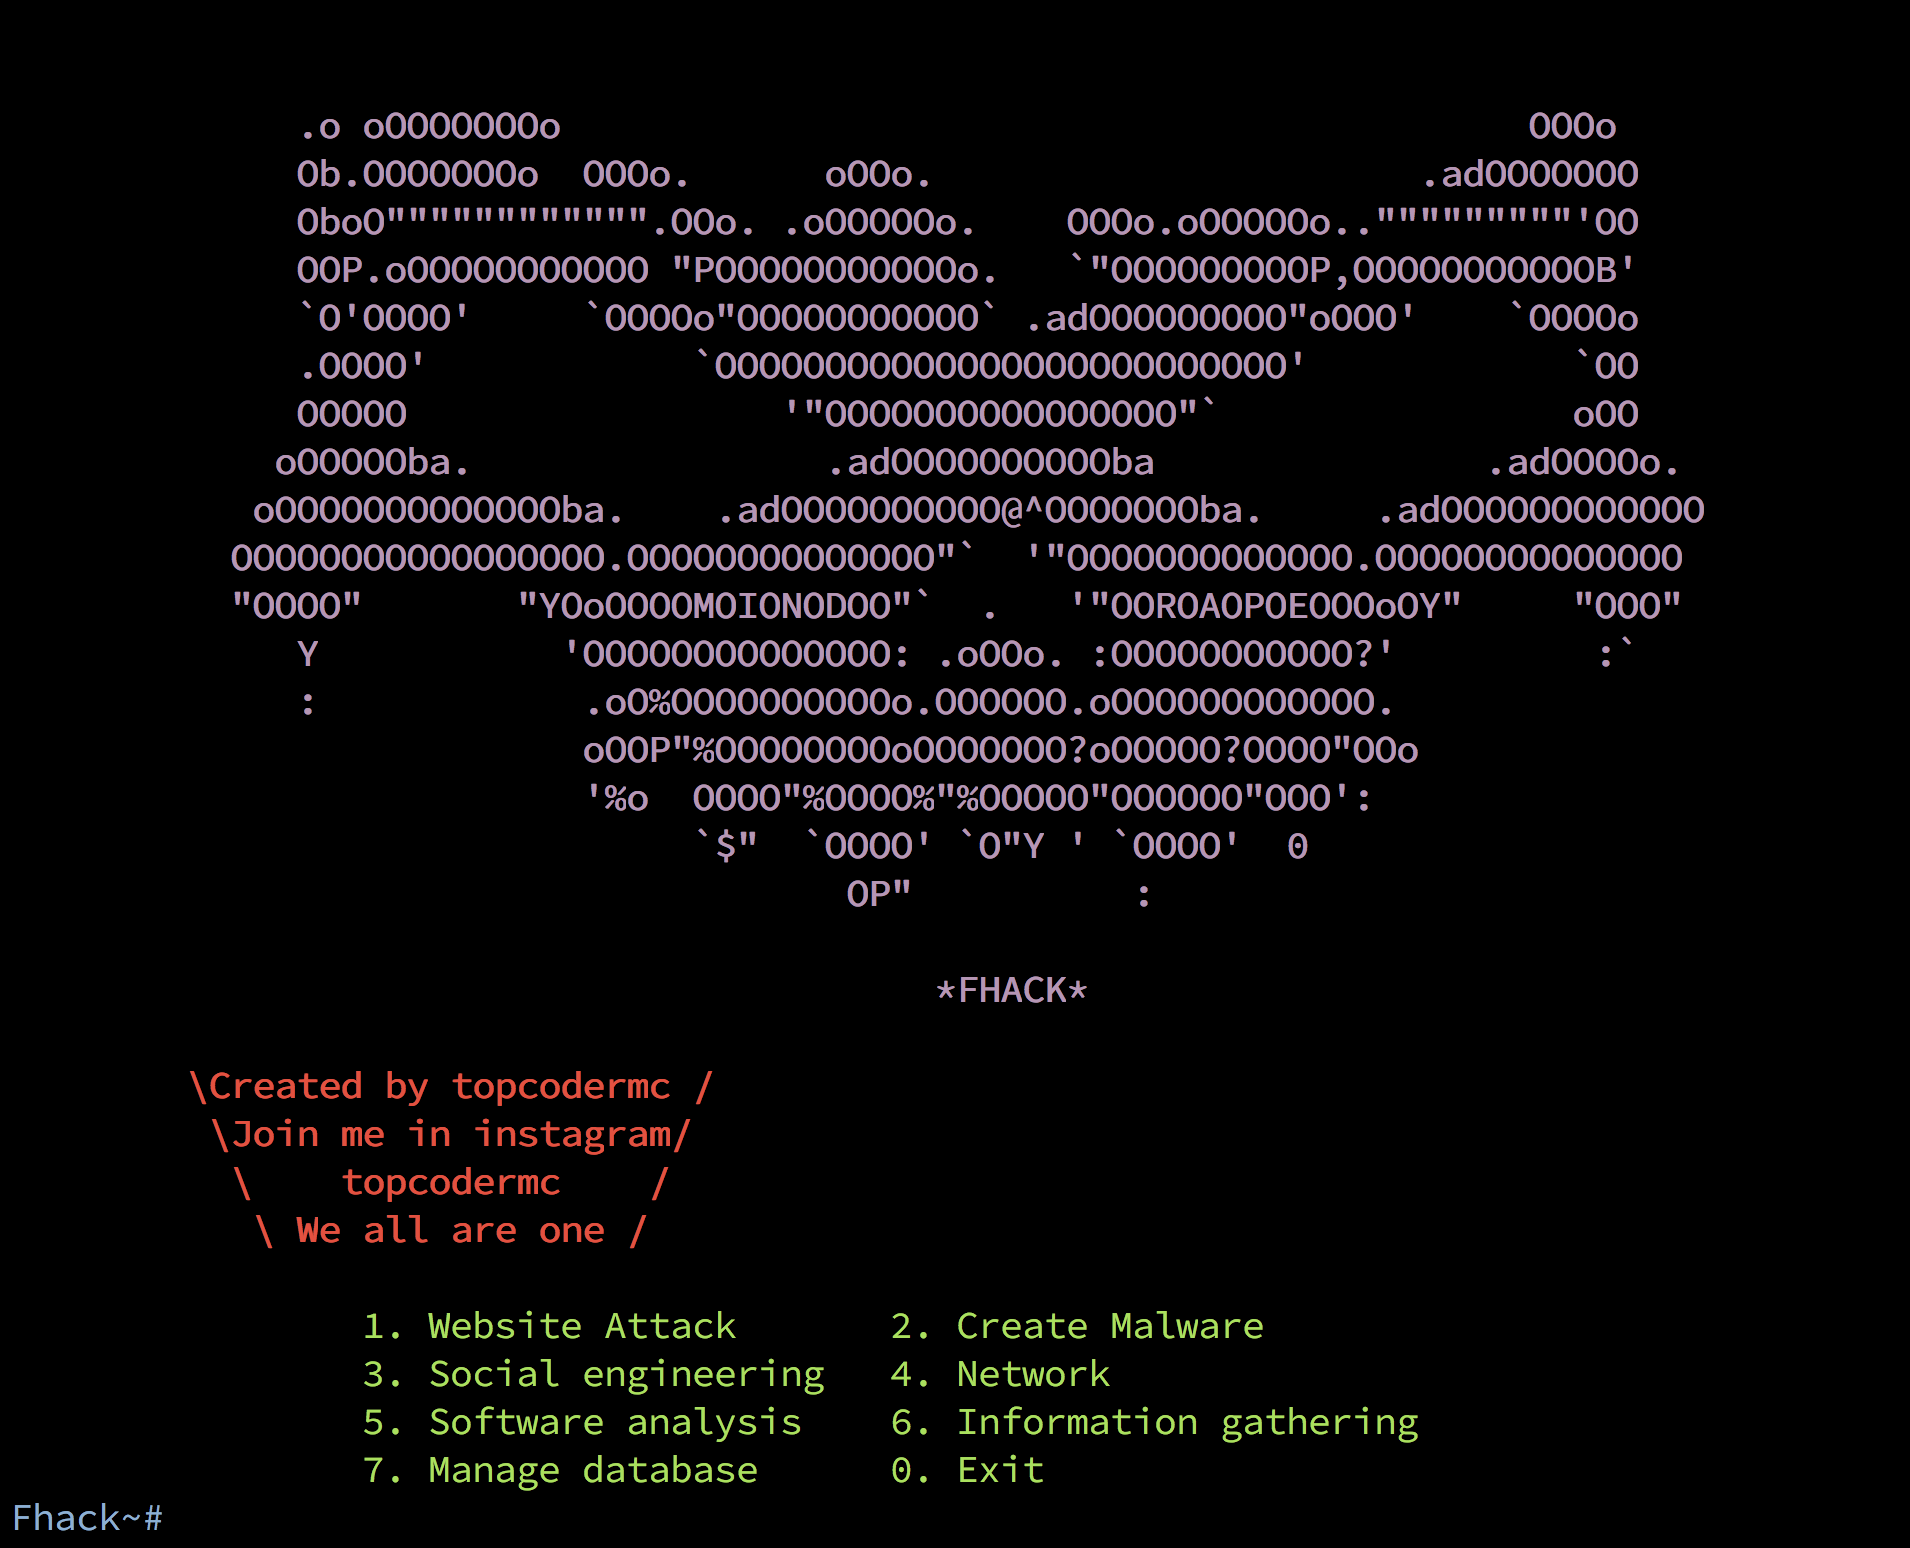
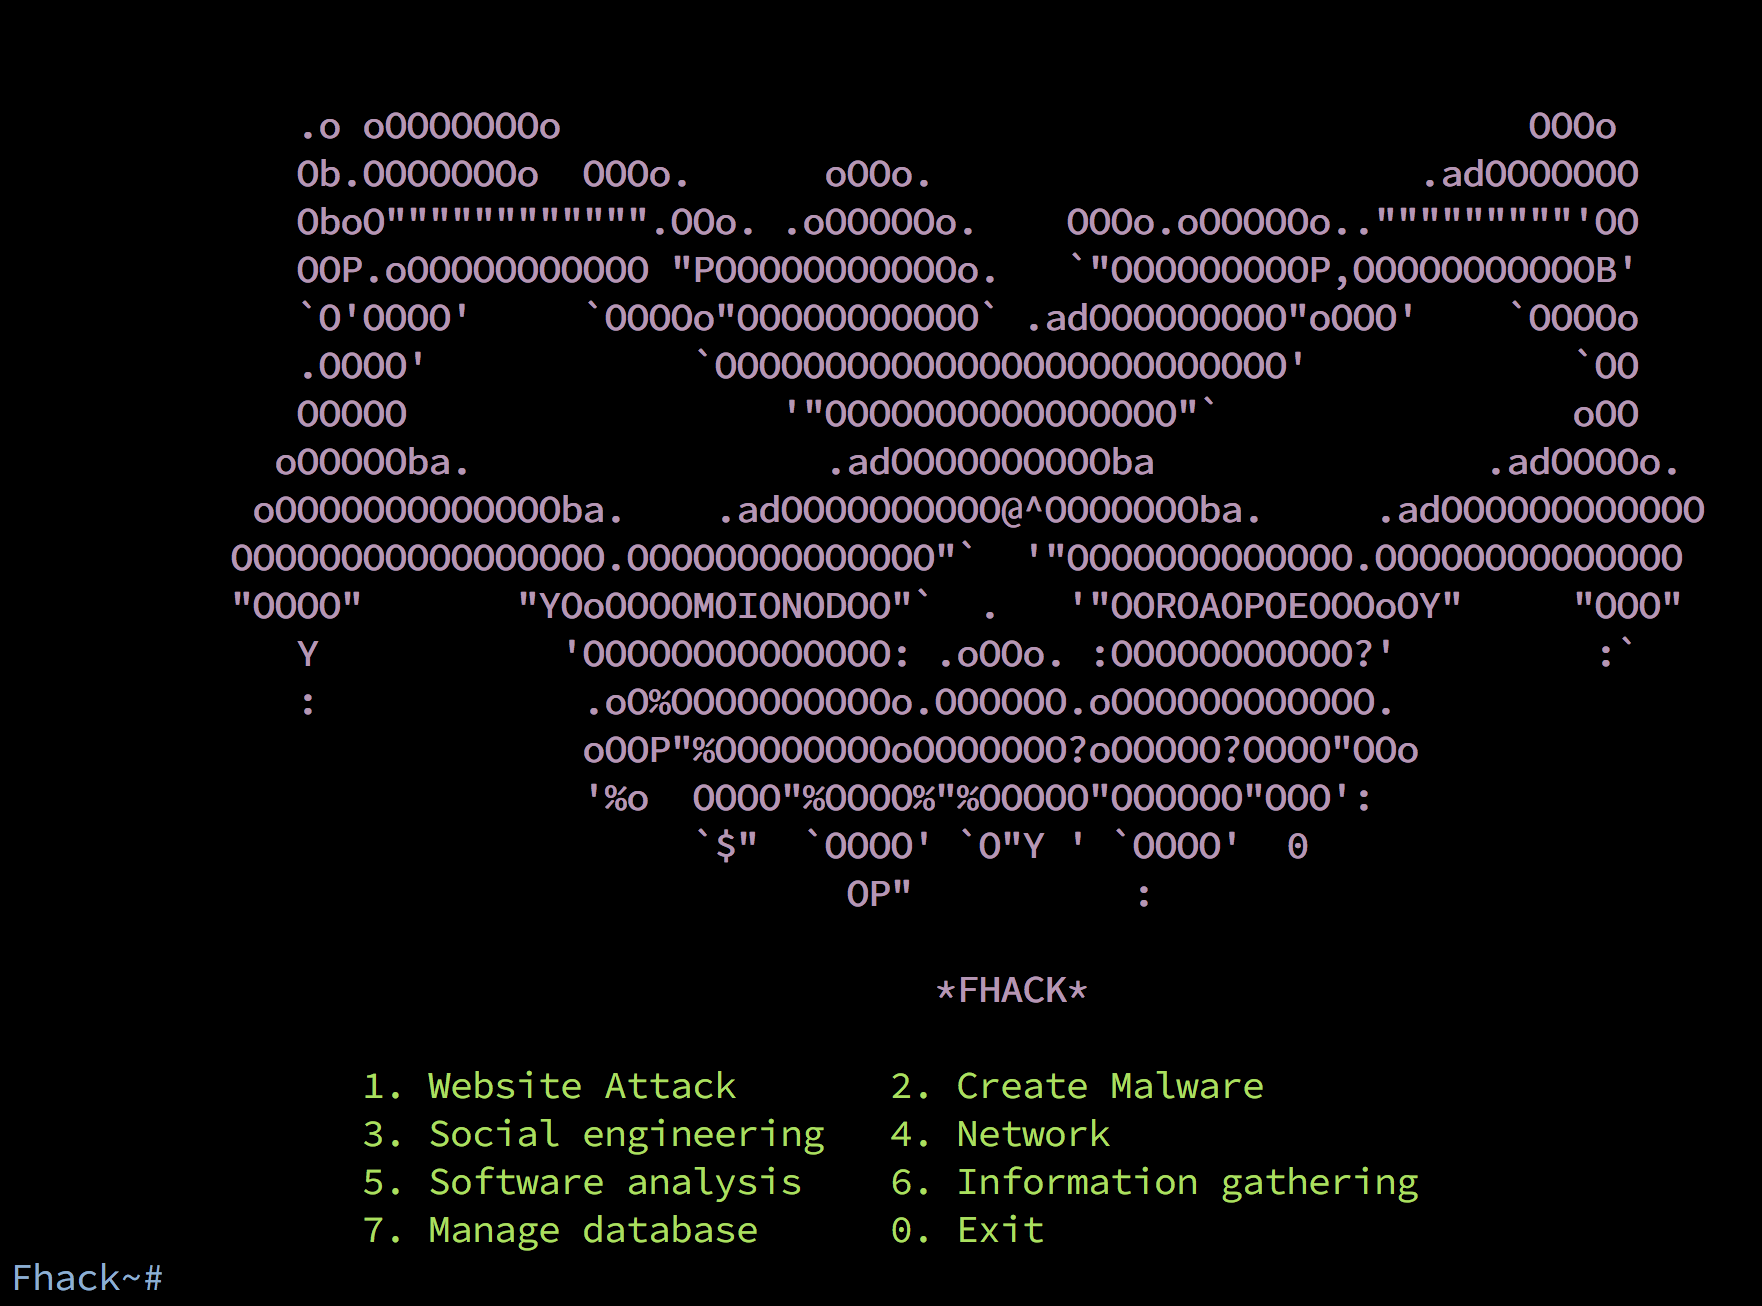
some stuff

diff --git a/src/Mask.py b/src/Mask.py
@@ -23,16 +23,7 @@ Mask = TextColor.HEADER + TextColor.BOLD + str('''
                                       OP"          :
 
 					  *FHACK*
-''') + TextColor.RED + \
-	str(
-'''
-	\Created by topcodermc /
-	 \Join me in instagram/
-	  \    topcodermc    /
-	   \ We all are one /
-'''
-) + TextColor.WHITE
-
+''') + TextColor.WHITE
 class MaskTerminal:
 	def __init__(self):
 		self.Text = Mask
